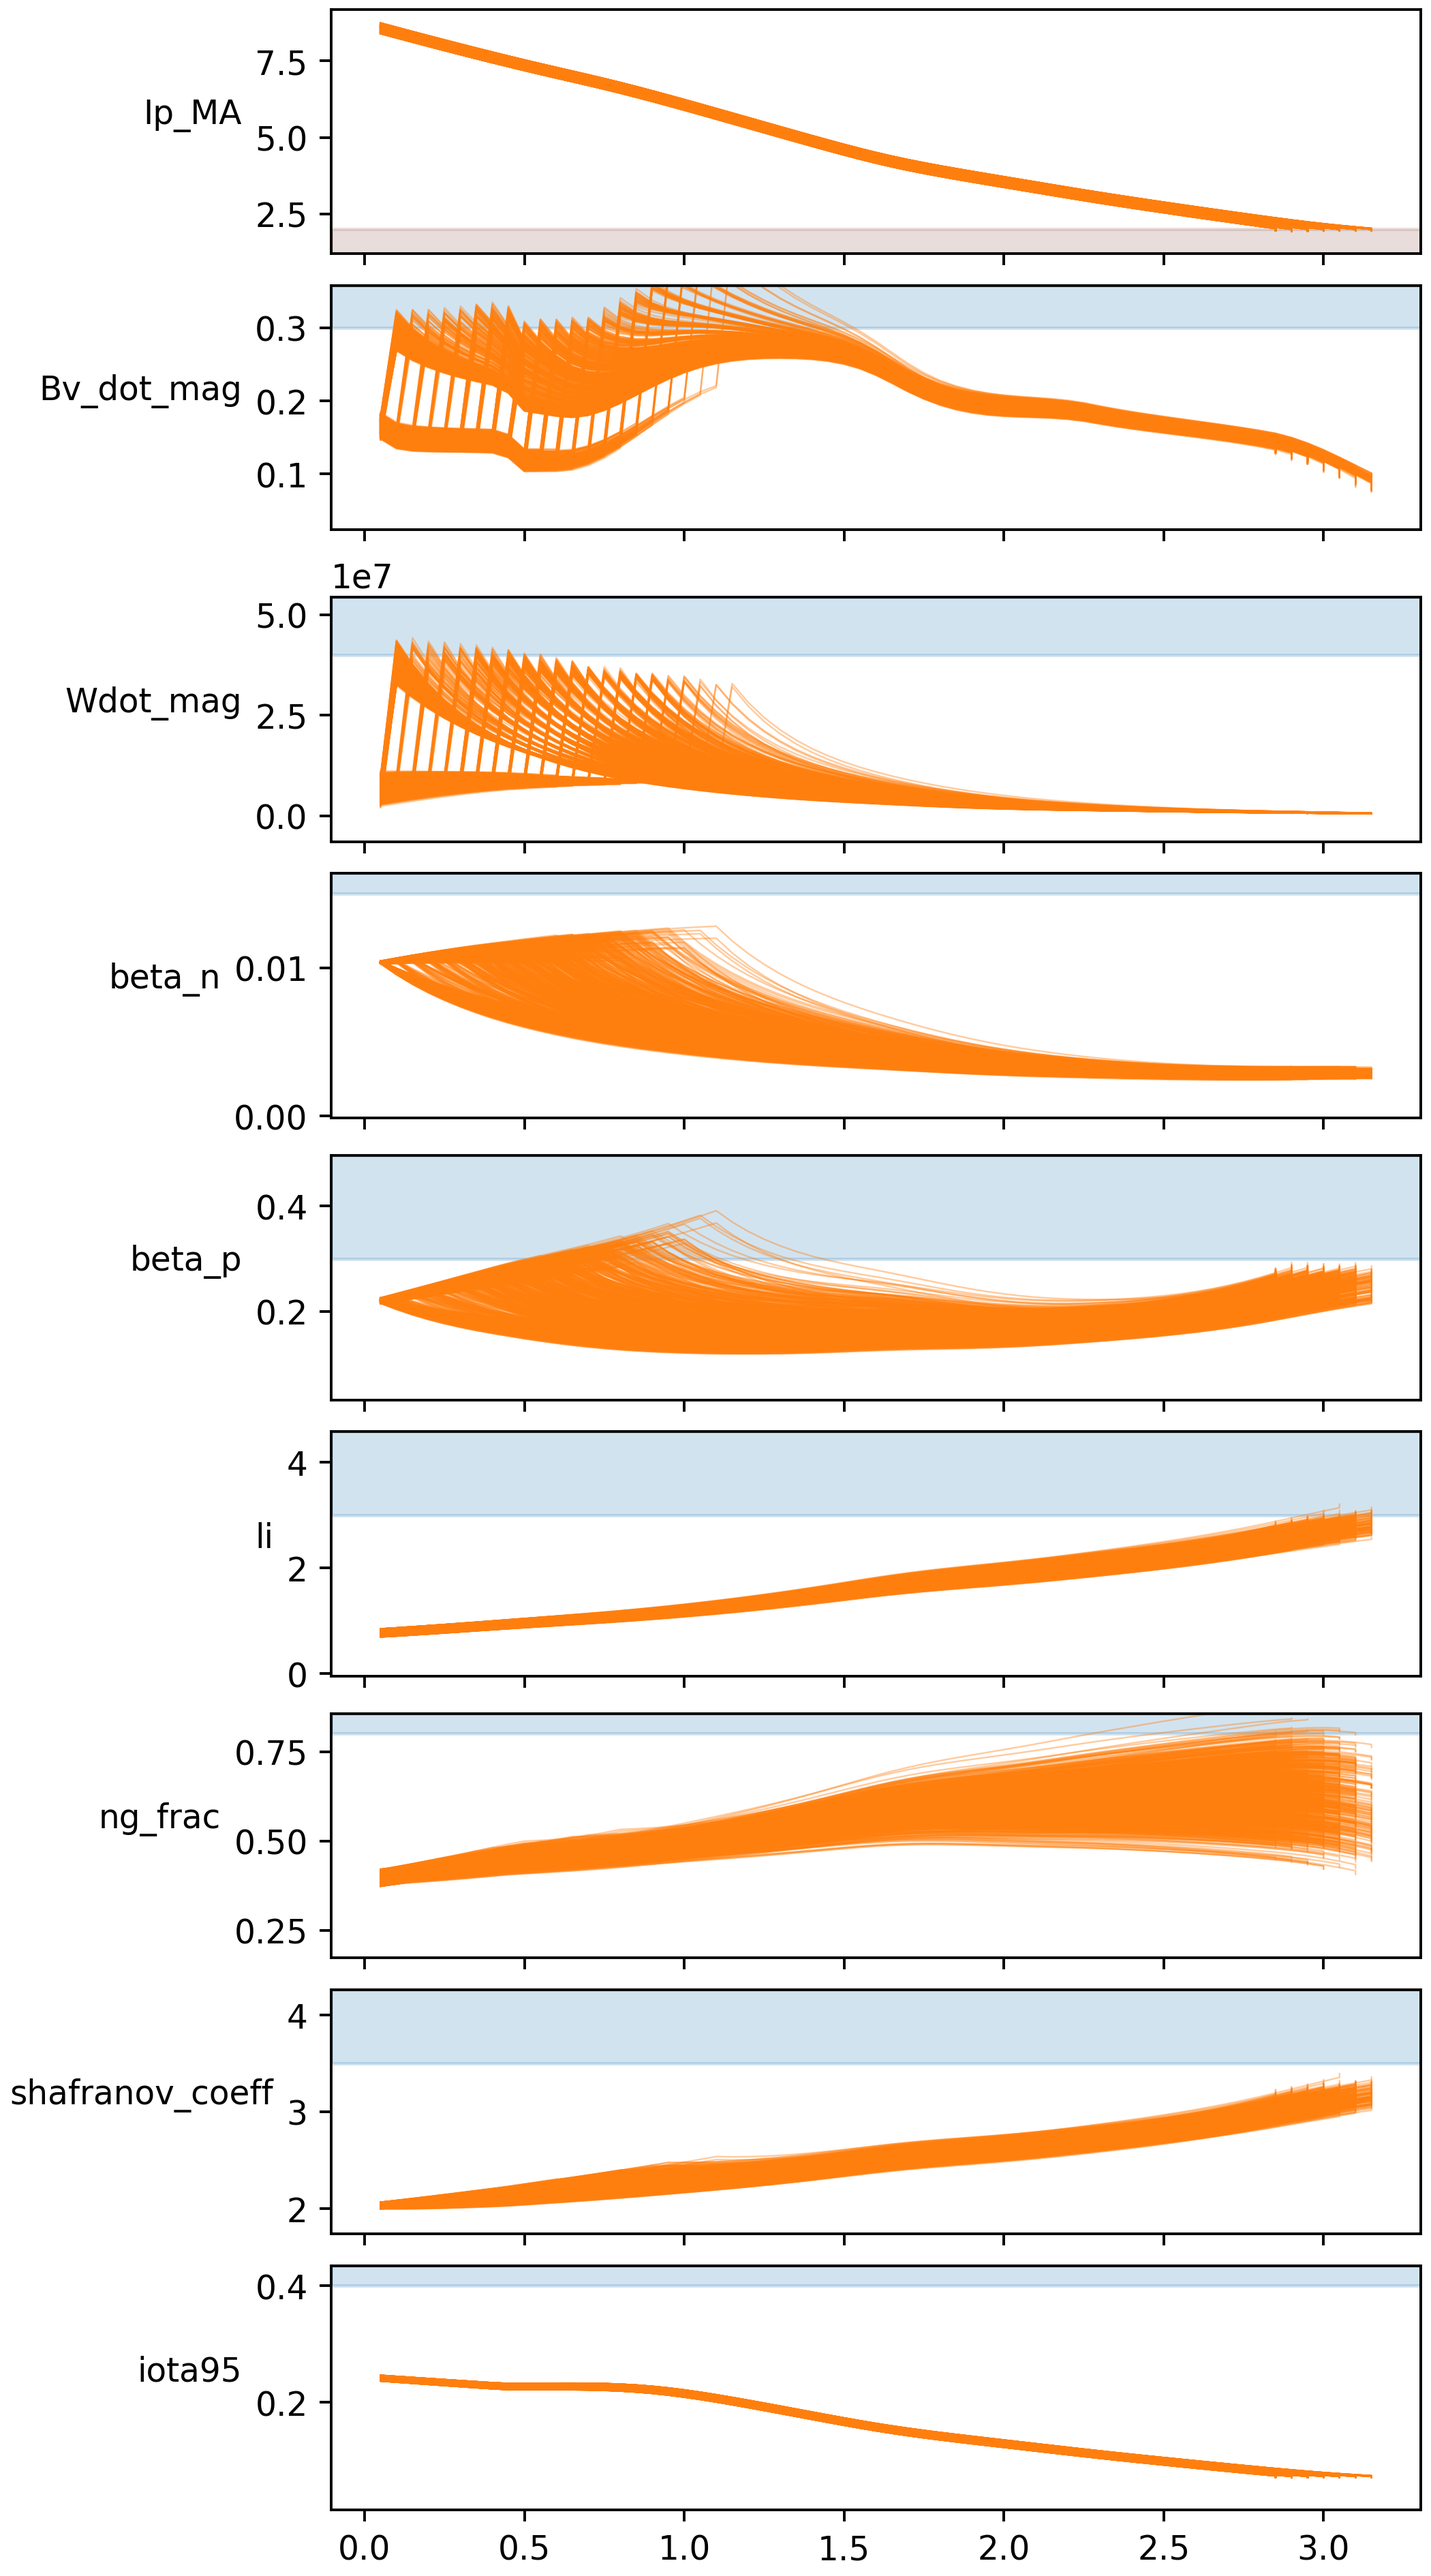
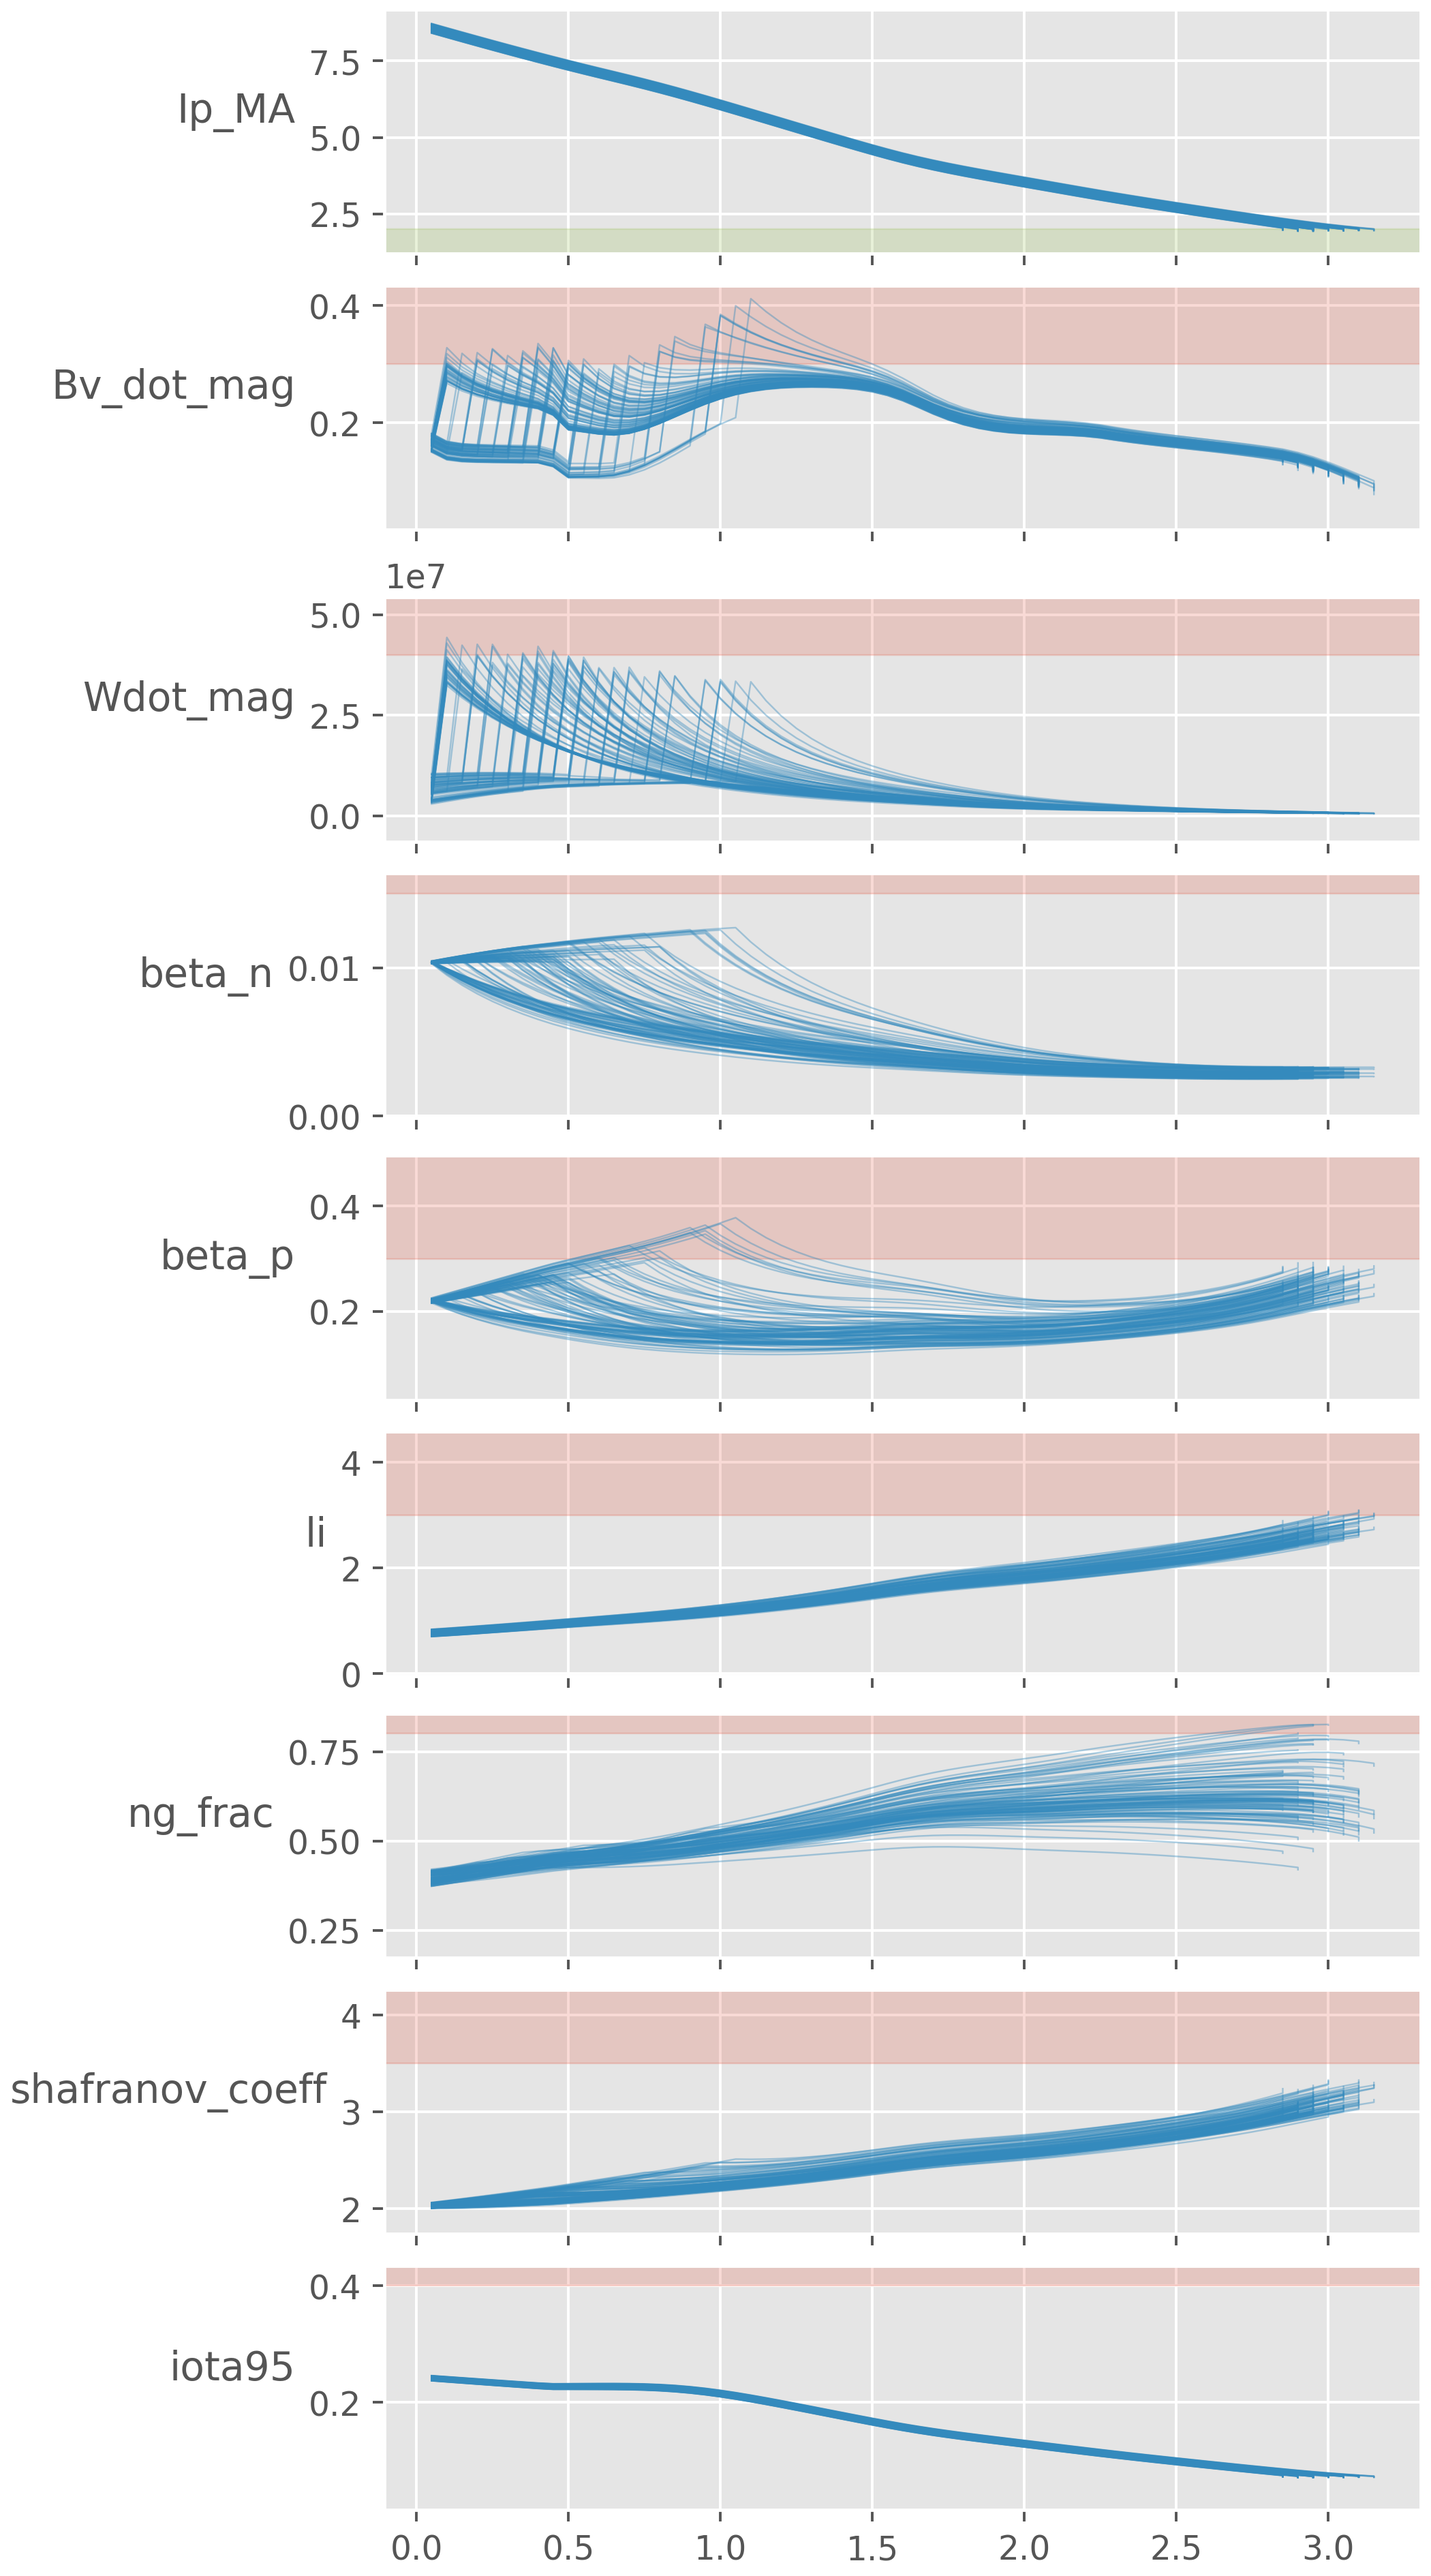
Add plotting scripts

diff --git a/scripts/es/train/es_open_loop.py b/scripts/es/train/es_open_loop.py
@@ -22,9 +22,11 @@ from tqdm import tqdm
 import wandb
 from contrax.controls.controls import cubic_interp
 from pop_down_gym.pd_gym_stateless import PopDownGymStateless
-from scripts.es.train.es_closed_loop import (plot_action_trajectory,
-                                             plot_hit_time_vs_reward,
-                                             plot_test_set_trajectories)
+from scripts.es.train.es_closed_loop import (
+    plot_action_trajectory,
+    plot_hit_time_vs_reward,
+    plot_test_set_trajectories,
+)
 
 
 class MLP(eqx.Module):
@@ -52,6 +54,7 @@ class Spline(eqx.Module):
     args:
         p: the array of control points for the Bezier curve
     """
+
     p: jax.Array
 
     def __init__(self, key, degree, dimension):
@@ -77,7 +80,7 @@ class Spline(eqx.Module):
     def __call__(self, t):
         """
         Return the point along the trajectory at the given time.
-        
+
         Args:
             t: the normalized time to evaluate the spline at (between 0 and 1)
         """
@@ -90,7 +93,7 @@ class Spline(eqx.Module):
 
         # Clamp
         return jax.nn.tanh(y)
-    
+
 
 class CubicTrajectory(eqx.Module):
     controls: jax.Array
@@ -102,7 +105,7 @@ class CubicTrajectory(eqx.Module):
     def __call__(self, t):
         """
         Return a cubic interpolation of the trajectory at the given time
-        
+
         Args:
             t: the normalized time to evaluate the trajectory at (between 0 and 1)
         """
@@ -186,6 +189,9 @@ def train_es_open_loop(
     # Set the seed for reproducibility
     prng_key = jax.random.PRNGKey(0)
 
+    # Set plotting styles
+    plt.style.use("ggplot")
+
     # Load the environment
     env = PopDownGymStateless.create_env()
 
@@ -202,7 +208,7 @@ def train_es_open_loop(
 
     # Also create a test env with full uncertainty
     test_env = PopDownGymStateless.create_env()
-    rollout_test = lambda key, traj: rollout_open_loop(
+    rollout_test = lambda key, traj: rollout_open_loop(  # noqa
         key, test_env, traj, simulation_steps
     )
 
@@ -244,13 +250,13 @@ def train_es_open_loop(
     os.makedirs(save_path, exist_ok=True)
 
     # Define the fitness function
-    fitness_single_rollout = lambda key, traj: rollout_open_loop(key, env, traj)[0]
+    fitness_single_rollout = lambda key, traj: rollout_open_loop(key, env, traj)[0]  # noqa
 
     def fitness_multiple_rollouts(key, traj):
         keys = jax.random.split(key, num_eval_rollouts)
         return jax.vmap(fitness_single_rollout, in_axes=(0, None))(keys, traj)
 
-    mean_fitness_multiple_rollouts = lambda key, traj: fitness_multiple_rollouts(
+    mean_fitness_multiple_rollouts = lambda key, traj: fitness_multiple_rollouts(  # noqa
         key, traj
     ).mean()
 
@@ -363,7 +369,7 @@ def train_es_open_loop(
     # Get the state trajectories, reward inputs, and reward distribution on the training
     # uncertainty range
     keys = jax.random.split(prng_key, num_eval_rollouts)
-    rollout_train = lambda key, traj: rollout_open_loop(
+    rollout_train = lambda key, traj: rollout_open_loop(  # noqa
         key, env, traj, simulation_steps
     )
     (
@@ -374,14 +380,12 @@ def train_es_open_loop(
         _,
         _,
         _,
-    ) = jax.vmap(
-        rollout_train, in_axes=(0, None)
-    )(keys, best_trajectory)
+    ) = jax.vmap(rollout_train, in_axes=(0, None))(keys, best_trajectory)
 
     # Get the state trajectories, reward inputs, and reward distribution on the full
     # uncertainty range
     test_env = PopDownGymStateless.create_env()
-    rollout_test = lambda key, traj: rollout_open_loop(
+    rollout_test = lambda key, traj: rollout_open_loop(  # noqa
         key, test_env, traj, simulation_steps
     )
     (
@@ -441,7 +445,9 @@ def train_es_open_loop(
     wandb.save(os.path.join(save_path, "test_env_performance.eqx"))
 
     # Plot the trajectories on the test set
-    plot_test_set_trajectories(env, t_test, reward_inputs_test, save_path, commit_wandb=True)
+    plot_test_set_trajectories(
+        env, t_test, reward_inputs_test, save_path, commit_wandb=True
+    )
 
     # Plot trajectory in unnormalized action space
     plot_action_trajectory(env, t_test, actions_test, save_path, commit_wandb=True)

diff --git a/scripts/es/plot/plot_open_loop.py b/scripts/es/plot/plot_open_loop.py
@@ -1,0 +1,57 @@
+"""
+Plot the open-loop (feedforward controls) trajectories
+"""
+import os
+
+import equinox as eqx
+import jax
+import matplotlib.pyplot as plt
+
+from pop_down_gym.pd_gym_stateless import PopDownGymStateless
+from scripts.es.train.es_closed_loop import plot_test_set_trajectories
+from scripts.es.train.es_open_loop import CubicTrajectory, rollout_open_loop
+
+if __name__ == "__main__":
+    # Hyperparams
+    num_control_points = 10
+    num_eval_rollouts = 100
+    simulation_steps = 100
+
+    # Set the seed for reproducibility
+    prng_key = jax.random.PRNGKey(0)
+
+    # Load the environment
+    env = PopDownGymStateless.create_env()
+
+    # Load the trajectory
+    prng_key, subkey = jax.random.split(prng_key)
+    initial_traj = CubicTrajectory(subkey, num_control_points, env.n_actions)
+    results_dir = (
+        "tmp/es/open_loop_sparse-noterminate_cubic/uncertainty_1.00/lr_1.0e-01"
+    )
+    best_trajectory = eqx.tree_deserialise_leaves(
+        os.path.join(results_dir, "best_trajectory.eqx"), initial_traj
+    )
+
+    # Simulate a bunch of trajectories
+    keys = jax.random.split(prng_key, num_eval_rollouts)
+    rollout_test = lambda key, traj: rollout_open_loop(key, env, traj, simulation_steps)  # noqa
+    (
+        rewards_test,
+        states_test,
+        t_test,
+        reward_inputs_test,
+        _,
+        hit_goal_test,
+        actions_test,
+    ) = jax.vmap(rollout_test, in_axes=(0, None))(keys, best_trajectory)
+
+    # Plot
+    plt.style.use("ggplot")
+    plot_test_set_trajectories(
+        env,
+        t_test,
+        reward_inputs_test,
+        results_dir,
+        use_wandb=False,
+    )

diff --git a/scripts/es/train/es_closed_loop.py b/scripts/es/train/es_closed_loop.py
@@ -132,12 +132,14 @@ def plot_action_trajectory(
     wandb.log({"Feedforward trajectory": fig}, commit=commit_wandb)
 
 
-def plot_test_set_trajectories(env, t, reward_inputs, save_path=None, commit_wandb=False):
+def plot_test_set_trajectories(
+    env, t, reward_inputs, save_path=None, commit_wandb=False, use_wandb=True
+):
     constr_labels = PopDownGymStateless.constr_labels()
     nconstr = len(constr_labels)
     ylims = {
         "Ip_MA": [1.2e00, 9.18e00],
-        "Bv_dot_mag": [5.14e-02, 3.30e-01],
+        "Bv_dot_mag": [5.14e-02, 4.00e-01],
         "Wdot_mag": [-1.42e06, 4.93e07],
         "beta_n": [1.25e-03, 1.17e-02],
         "beta_p": [6.96e-02, 4.57e-01],
@@ -183,7 +185,8 @@ def plot_test_set_trajectories(env, t, reward_inputs, save_path=None, commit_wan
     if save_path is not None:
         plt.savefig(os.path.join(save_path, "test_env_performance.png"))
 
-    wandb.log({"Test env trajectory": fig}, commit=commit_wandb)
+    if use_wandb:
+        wandb.log({"Test env trajectory": fig}, commit=commit_wandb)
 
 
 def plot_hit_time_vs_reward(t, hit_goal, rewards, save_path=None, commit_wandb=False):
@@ -461,7 +464,9 @@ def train_es_closed_loop(
     wandb.save(os.path.join(save_path, "test_env_performance.eqx"))
 
     # Plot the trajectories on the test set
-    plot_test_set_trajectories(env, t_test, reward_inputs_test, save_path, commit_wandb=True)
+    plot_test_set_trajectories(
+        env, t_test, reward_inputs_test, save_path, commit_wandb=True
+    )
 
     # Plot trajectory in unnormalized action space
     plot_action_trajectory(env, t_test, actions_test, save_path, commit_wandb=True)
